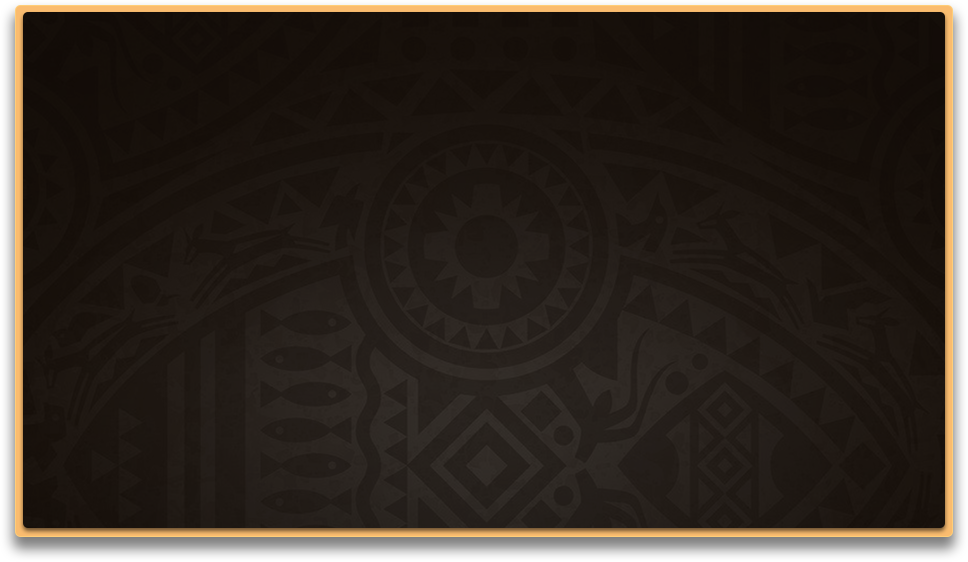
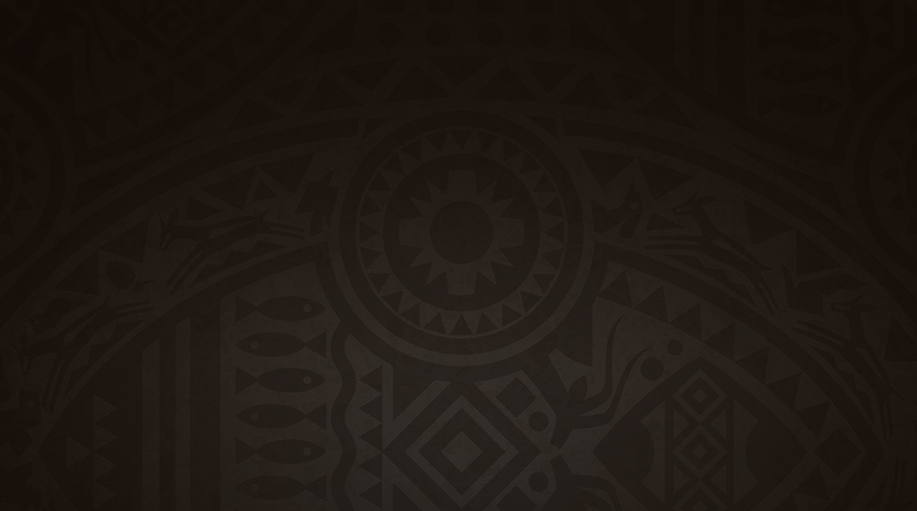
news fix

Changed region(s): [[0.0, 0.0, 1.0, 1.0]]

diff --git a/src/sections/Section3.tsx b/src/sections/Section3.tsx
@@ -65,7 +65,7 @@ export default function Section3() {
     <div id='news' className=' relative z-30 w-screen flex items-start justify-center h-auto md:py-40 py-20'
      style={{backgroundImage: "url('/v2/news/assets/BG.png')", backgroundSize: "cover", backgroundPosition: "center", backgroundRepeat:"no-repeat"}}
     >
-        <div className=' hidden max-w-[1920px] w-full lg:flex flex-row items-start justify-center text-white'>
+        <div className=' hidden max-w-[1920px] w-full lg:flex flex-row gap-4 h-[500px] items-center justify-center text-white'>
             {data.length !== 0 && (
                 <h2 className=' text-3xl font-bold italic absolute top-14 left-24'>LATEST NEWS</h2>
 
@@ -77,9 +77,9 @@ export default function Section3() {
                     initial='hidden'
                     whileInView={'show'}
                     viewport={{once:false, amount: 0.2}}
-                    className=' flex flex-col gap-2 p-6 lg:w-[60%] xl:w-[50%] h-auto'>
-                    <div className=' grid place-items-center grid-cols-2 rounded-lg h-[550px] p-6'
-                    style={{backgroundImage: "url('/v2/news/assets/Tab Big.png')", backgroundSize: "contain", backgroundPosition: "center", backgroundRepeat:"no-repeat"}}
+                    className=' flex flex-col items-start gap-2 lg:w-[60%] xl:w-[50%] h-full bg-red-500'>
+                    <div className=' grid place-items-center grid-cols-2 rounded-lg  w-full p-6 border-4 h-full border-orange-300'
+                    style={{backgroundImage: "url('/v2/news/assets/Tab Big.png')", backgroundSize: "cover", backgroundPosition: "center", backgroundRepeat:"no-repeat"}}
                     >
 
                     <div className=' w-[90%] h-[400px] lg:h-[280px] bg-red-900 flex items-center justify-center rounded-xl'
@@ -147,9 +147,9 @@ export default function Section3() {
                     initial='hidden'
                     whileInView={'show'}
                     viewport={{once:false, amount: 0.2}}
-                    className=' w-[30%] h-[500px] lg:mt-24 xl:mt-20 2xl:mt-8'>
+                    className=' flex flex-col gap-4 items-center w-[30%] h-full '>
 
-                        <div className=' w-full grid grid-cols-1 gap-6 h-[500px]'>
+                        <div className=' w-full grid grid-cols-1 gap-6 h-full'>
 
                             {loading ? (
                                 <>
@@ -187,7 +187,7 @@ export default function Section3() {
                                 </div>
                                 </>
                             ):(
-                                <div className=' flex flex-col items-start justify-start lg:h-[450px] xl:h-[480px] 2xl:h-[520px]'>
+                                <div className=' flex flex-col gap-4 items-start justify-start lg:h-[400px] xl:h-[450px] 2xl:h-[500px]'>
                                 { data.map((news, idx) => {
                                     const imageUrl = `${process.env.NEXT_PUBLIC_API_URL}/${news.banner.replace(/\\/g, '/')}`;
                                   
@@ -200,9 +200,9 @@ export default function Section3() {
                                                 setId(news.newsid); 
                                             }} 
                                             key={idx} 
-                                            className={`w-full flex items-center gap-4 h-[150px] lg:h-[120px] xl:h-[140px] 2xl:h-[170px] px-6 ${news.newsid === id ? ' rounded-md h-[160px] ' : ''}`}
+                                            className={`w-full flex items-center gap-4 h-[150px] lg:h-[120px] xl:h-[140px] 2xl:h-[170px] px-6 border-4 border-orange-300 ${news.newsid === id ? ' rounded-md h-[160px] ' : ''}`}
 
-                                            style={{backgroundImage: "url('/v2/news/assets/Tab Small A.png')", backgroundSize: "contain", backgroundPosition: "center", backgroundRepeat:"no-repeat"}}
+                                            style={{backgroundImage: "url('/v2/news/assets/Tab Small A.png')", backgroundSize: "cover", backgroundPosition: "center", backgroundRepeat:"no-repeat"}}
 
                                             >
                                             <div className='rounded-lg'>
@@ -231,7 +231,11 @@ export default function Section3() {
                                 </div>
                             )}
 
-                            <div className={` ${ totalpages === 1 ? 'hidden' : 'flex items-center justify-center gap-4 mt-4'}`}>
+                          
+                            
+                        </div>
+
+                          <div className={` ${ totalpages === 1 ? 'hidden' : 'flex items-center justify-center gap-4'}`}>
                                     <button 
                                     onClick={() => setCurrentpage( currentpage - 1)}
                                     disabled={loading ? true : currentpage === 0} 
@@ -243,8 +247,6 @@ export default function Section3() {
                                     className=' text-secondary'><MdOutlineKeyboardArrowRight size={40}/></button>
 
                             </div>
-                            
-                        </div>
                     </motion.div>
                 )}
 
@@ -262,12 +264,12 @@ export default function Section3() {
             viewport={{once:false, amount: 0.2}}
             className=' flex flex-col gap-2 w-full h-auto'>
                 <h2 className=' text-3xl font-bold italic'>LATEST NEWS</h2>
-                <div className=' grid place-items-center grid-cols-1 rounded-lg h-auto p-8 mt-6'
+                <div className=' grid place-items-center grid-cols-1 rounded-lg h-auto p-8 mt-6 border-4 border-orange-300'
                 style={{backgroundImage: "url('/v2/news/assets/Tab Big.png')", backgroundSize: "cover", backgroundPosition: "center", backgroundRepeat:"no-repeat"}}
                 
                 >
 
-                   <div className=' w-full h-[280px] bg-red-900 flex items-center justify-center rounded-xl'
+                   <div className=' w-full h-[220px] bg-red-900 flex items-center justify-center rounded-xl'
                      style={{
                         backgroundImage: `url('${process.env.NEXT_PUBLIC_API_URL}/${img.replace(/\\/g, '/')}')`,
                         backgroundSize: "cover",
@@ -324,9 +326,9 @@ export default function Section3() {
             initial='hidden'
             whileInView={'show'}
             viewport={{once:false, amount: 0.2}}
-            className=' w-full h-[500px] mt-4'>
+            className=' w-full h-[450px] mt-4'>
 
-                <div className=' w-full grid grid-cols-1 gap-6  h-[500px]'>
+                <div className=' w-full grid grid-cols-1 gap-2  h-[450px]'>
 
                     {loading ? (
                         <div className=' w-full h-auto flex flex-col gap-4 items-center justify-center'>
@@ -366,7 +368,7 @@ export default function Section3() {
                     ):(
                         <>
                          { data.map((news, idx) =>(
-                         <div onClick={() => {setTitle(news.title); setDescription(news.description); setImg(news.banner); setId(news.newsid)}} key={idx} className={`w-full flex items-center py-3 px-8 gap-4 ${ news.newsid === id && ' bg-red-950 rounded-md'}`}
+                         <div onClick={() => {setTitle(news.title); setDescription(news.description); setImg(news.banner); setId(news.newsid)}} key={idx} className={`w-full flex items-center py-3 px-8 h-auto gap-4 border-4 border-orange-300 rounded-md ${ news.newsid === id && ' bg-red-950 rounded-md'}`}
                         style={{backgroundImage: "url('/v2/news/assets/Tab Small A.png')", backgroundSize: "cover", backgroundPosition: "center", backgroundRepeat:"no-repeat"}}
                          
                          >
@@ -377,7 +379,7 @@ export default function Section3() {
                                 </div>
                                 <div className=' flex flex-col gap-1 w-[70%]'>
                                     <p className='text-lg font-semibold line-clamp-2'>{news.title}</p>
-                                    <p className=' text-sm text-zinc-100 line-clamp-3'>{news.description}</p>
+                                    <p className=' text-sm text-zinc-100 line-clamp-2'>{news.description}</p>
                                 </div>
                                 
 

diff --git a/src/app/user/page.tsx b/src/app/user/page.tsx
@@ -232,7 +232,10 @@ export default function page() {
                                 
                             Edit</button>
                         </DialogTrigger>
-                        <DialogContent className=' w-[95%] md:w-[70%] lg:w-[50%] bg-zinc-950 border-none p-6'>
+                        <DialogContent className=' w-[95%] md:w-[70%] lg:w-[50%] bg-zinc-950 border-none p-6'
+                        style={{backgroundImage: "url('/pd/BG.png')", backgroundSize: "cover", backgroundPosition: "bottom", backgroundRepeat:"no-repeat"}}
+                        
+                        >
                             <h2 className=' text-lg font-semibold text-secondary'>Change Email</h2>
                             <p className=' text-sm text-white'>New Email</p>
                            <Input placeholder='Enter your new email' value={newemail} onChange={(e) => setNewemail(e.target.value)} type='email' required className=' w-full bg-zinc-900 border-none text-white'/>
@@ -280,7 +283,10 @@ export default function page() {
                                 
                             Edit</button>
                         </DialogTrigger>
-                        <DialogContent className=' bg-zinc-950 border-none p-6 w-[95%] md:w-[70%] lg:w-[50%]'>
+                        <DialogContent className=' bg-zinc-950 border-none p-6 w-[95%] md:w-[70%] lg:w-[50%]'
+                        style={{backgroundImage: "url('/pd/BG.png')", backgroundSize: "cover", backgroundPosition: "bottom", backgroundRepeat:"no-repeat"}}
+                        
+                        >
                             <h2 className=' text-lg font-semibold text-secondary'>Change Password</h2>
                             <p className=' text-sm text-white'>New Password</p>
                            <Input placeholder='Password' value={password} onChange={(e) => setPassword(e.target.value)} type='password' className=' w-full bg-zinc-900 border-none text-white'/>
@@ -323,7 +329,9 @@ export default function page() {
                             className=' h-10 w-full py-2 text-sm bg-gradient-to-r from-orange-300 to-orange-400 rounded-lg font-bold text-amber-950 hover:scale-110 ease-in-out duration-200'
                             >Add</button>
                         </DialogTrigger>
-                        <DialogContent className=' flex items-center justify-center w-[90%] md:w-[400px] h-[300px] bg-zinc-950 border-zinc-900'>
+                        <DialogContent className=' flex items-center justify-center w-[90%] md:w-[400px] h-[300px] bg-zinc-950 border-zinc-900'
+                        style={{backgroundImage: "url('/pd/BG.png')", backgroundSize: "cover", backgroundPosition: "bottom", backgroundRepeat:"no-repeat"}}
+                        >
                            <p className=' text-white'>Coming Soon!</p>
                         </DialogContent>
                         </Dialog>
@@ -332,19 +340,19 @@ export default function page() {
                     <div className=' w-full grid grid-cols-3 gap-4 mt-4'>
                         <div className=' bg-zinc-950 rounded-md flex flex-col items-center justify-center gap-4 p-4'>
                             <h2 className=' text-xl font-bold text-orange-300'>0</h2>
-                            <p className=' text-sm text-zinc-400'>Total Kills</p>
+                            <p className=' text-sm text-zinc-400 h-10 text-center'>Total Kills</p>
 
                         </div>
 
                          <div className=' bg-zinc-950 rounded-md flex flex-col items-center justify-center gap-4 p-4'>
                             <h2 className=' text-xl font-bold text-orange-300'>0</h2>
-                            <p className=' text-sm text-zinc-400'>Total Deaths</p>
+                            <p className=' text-sm text-zinc-400 h-10 text-center'>Total Deaths</p>
 
                         </div>
 
                          <div className=' bg-zinc-950 rounded-md flex flex-col items-center justify-center gap-4 p-4'>
                             <h2 className=' text-xl font-bold text-orange-300'>0</h2>
-                            <p className=' text-sm text-zinc-400'>Current Rank</p>
+                            <p className=' text-sm text-zinc-400 h-10 text-center'>Current Rank</p>
 
                         </div>
                     </div>

diff --git a/src/sections/Footer.tsx b/src/sections/Footer.tsx
@@ -14,27 +14,27 @@ export default function Footer() {
 
                 <div className=' flex md:flex-row flex-col items-center gap-4 lg:gap-6 text-white'>
 
-                    <a href='/' className=' text-xs md:text-sm font-bold px-8 py-2 w-[120px] lg:w-[180px] text-center hover:scale-105 ease-in-out duration-300'
+                    <a href='/' className=' text-[.6em] md:text-sm font-bold px-8 py-2 w-[120px] lg:w-[180px] text-center hover:scale-105 ease-in-out duration-300'
                     style={{backgroundImage: "url('/pd/Button A.png')", backgroundSize: "contain", backgroundPosition: "center", backgroundRepeat:"no-repeat"}}
                     
                     >HOME</a>
 
-                     <a href='/#news' className=' text-xs md:text-sm font-bold px-8 py-2 w-[120px] lg:w-[180px] text-center hover:scale-105 ease-in-out duration-300'
+                     <a href='/#news' className=' text-[.6em] md:text-sm font-bold px-8 py-2 w-[120px] lg:w-[180px] text-center hover:scale-105 ease-in-out duration-300'
                     style={{backgroundImage: "url('/pd/Button B.png')", backgroundSize: "contain", backgroundPosition: "center", backgroundRepeat:"no-repeat"}}
                     
                     >NEWS</a>
 
-                    <a href='/#maps' className=' text-xs md:text-sm font-bold px-8 py-2 w-[120px] lg:w-[180px] text-center hover:scale-105 ease-in-out duration-300'
+                    <a href='/#maps' className=' text-[.6em] md:text-sm font-bold px-8 py-2 w-[120px] lg:w-[180px] text-center hover:scale-105 ease-in-out duration-300'
                     style={{backgroundImage: "url('/pd/Button B.png')", backgroundSize: "contain", backgroundPosition: "center", backgroundRepeat:"no-repeat"}}
                     
                     >MAPS</a>
 
-                     <a href='/#newsletter' className=' text-xs md:text-xs font-bold px-8 py-2 w-[120px] lg:w-[180px] text-center hover:scale-105 ease-in-out duration-300'
+                     <a href='/#newsletter' className=' text-[.6em] md:text-xs font-bold px-8 py-2 w-[120px] lg:w-[180px] text-center hover:scale-105 ease-in-out duration-300'
                     style={{backgroundImage: "url('/pd/Button B.png')", backgroundSize: "contain", backgroundPosition: "center", backgroundRepeat:"no-repeat"}}
                     
                     >NEWSLETTER</a>
 
-                     <a href='/#about' className=' text-xs md:text-sm font-bold px-8 py-2 w-[120px] lg:w-[180px] text-center hover:scale-105 ease-in-out duration-300'
+                     <a href='/#about' className=' text-[.6em] md:text-sm font-bold px-8 py-2 w-[120px] lg:w-[180px] text-center hover:scale-105 ease-in-out duration-300'
                     style={{backgroundImage: "url('/pd/Button C.png')", backgroundSize: "contain", backgroundPosition: "center", backgroundRepeat:"no-repeat"}}
                     
                     >ABOUT</a>

diff --git a/src/app/page.tsx b/src/app/page.tsx
@@ -39,21 +39,17 @@ export default function Home() {
   return (
     <>
     { loading ? (
-      <div className=" w-screen h-screen flex items-center justify-center bg-zinc-950">
-       <div className="loader w-40 h-40">
-                              <div className="bar1"></div>
-                              <div className="bar2"></div>
-                              <div className="bar3"></div>
-                              <div className="bar4"></div>
-                              <div className="bar5"></div>
-                              <div className="bar6"></div>
-                              <div className="bar7"></div>
-                              <div className="bar8"></div>
-                              <div className="bar9"></div>
-                              <div className="bar10"></div>
-                              <div className="bar11"></div>
-                              <div className="bar12"></div>
-                          </div>
+      <div className=" w-screen h-screen flex items-center justify-center bg-zinc-950"
+      style={{backgroundImage: "url('/pd/BG.png')", backgroundSize: "cover", backgroundPosition: "bottom", backgroundRepeat:"no-repeat"}}
+      
+      >
+        <div className=" relative flex flex-col items-center w-[300px] h-[300px]">
+          <img src="/pd/Tab Character.png" alt="" width={150} />
+          <div className=" loader2 text-orange-300">
+        
+        </div>
+        </div>
+       
       </div>
     ): (
        <div className=" flex flex-col items-center overflow-x-hidden">

diff --git a/src/app/globals.css b/src/app/globals.css
@@ -368,3 +368,28 @@ body {
   margin: 0;
   padding: 0;
 }
+
+/* HTML: <div class="loader"></div> */
+.loader2 {
+  width: fit-content;
+  font-weight: bold;
+  font-family: monospace;
+  white-space: pre;
+  font-size: 24px;
+  line-height: 1.2em;
+  height: 1.2em;
+  overflow: hidden;
+}
+
+.loader2:before {
+  content: "Loading...\A⌰oading...\A⌰⍜ading...\A⌰⍜⏃ding...\A⌰⍜⏃⎅ing...\A⌰⍜⏃⎅⟟ng...\A⌰⍜⏃⎅⟟⋏g...\A⌰⍜⏃⎅⟟⋏☌...\A⌰⍜⏃⎅⟟⋏☌⟒..\A⌰⍜⏃⎅⟟⋏☌⟒⏁.\A⌰⍜⏃⎅⟟⋏☌⟒⏁⋔";
+  white-space: pre;
+  display: inline-block;
+  animation: l39 1s infinite steps(11) alternate;
+}
+
+@keyframes l39 {
+  100% {
+    transform: translateY(-100%)
+  }
+}

diff --git a/src/components/ui/toast.tsx b/src/components/ui/toast.tsx
@@ -29,9 +29,9 @@ const toastVariants = cva(
   {
     variants: {
       variant: {
-        default: "border bg-green-500 text-white",
+        default: "border-none bg-[#000000] text-green-600",
         destructive:
-          "destructive group border-destructive bg-destructive text-destructive-foreground",
+          " border-none bg-[#000000] text-red-600",
       },
     },
     defaultVariants: {
